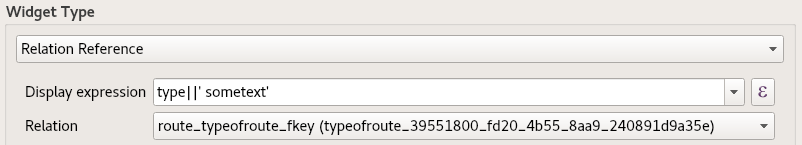
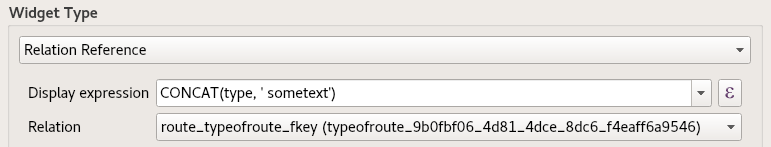
lingual corrections

diff --git a/en/meta_attributes.rst b/en/meta_attributes.rst
@@ -22,7 +22,7 @@ An Interlis comment starts with ``!!`` and ends with a line end. An attribute st
 
 **Syntax**
 
-After the start of ``!!@`` the attribute name follows, then equal, then attributevalue:
+After the start of ``!!@`` the attribute name follows, then equal, then the attribute value:
 
 ::
 
@@ -42,7 +42,7 @@ Followed by the referenced element (MODEL, TOPIC, CLASS etc.)
 	  !!@ topicInformation="Route-Type"
 	  TOPIC TypeOfRouteCatalogue
 	  EXTENDS CatalogueObjects_V1.Catalogues =
-	    !!@ dispExpression="type||' sometext'"
+	    !!@ dispExpression="CONCAT(type, ' sometext')"
 	    CLASS TypeOfRoute
 	    EXTENDS CatalogueObjects_V1.Catalogues.Item =
 
@@ -53,20 +53,21 @@ For more complex usage see the `specification of the Verein eCH <https://www.ech
 Meta Attributes in the Database
 ------------------------------------------
 
-When importing the data from the Interlis file to the DB, with ili2db integrated in the Project Generator, the Meta Attributes are stored in the table **t_ili2db_meta_attrs**:
+When importing the data from the Interlis file to the DB, with ili2db integrated in the Project Generator, the meta attributes are stored in the table **t_ili2db_meta_attrs**:
 
 ===============================================================  ==================  ===========================
 ilielement                                                       attr_name           attr_value
 ===============================================================  ==================  ===========================
 ExceptionalLoadsCatalogues_V1                                    furtherInformation  https://www.astra.admin.ch/
 ExceptionalLoadsCatalogues_V1.TypeOfRouteCatalogue               topicInformation    Route-Type
-ExceptionalLoadsCatalogues_V1.TypeOfRouteCatalogue.TypeOfRoute   dispExpression      type||' sometext'
+ExceptionalLoadsCatalogues_V1.TypeOfRouteCatalogue.TypeOfRoute   dispExpression      CONCAT(type, ' sometext')
 ===============================================================  ==================  ===========================
+
 
 Project Generator Specific Attributes
 ================================================
 
-Some attributes the Project Generator can handle as properties in the QGIS project.
+Some additional non standard meta attributes are understood by the project generator as properties in the QGIS project.
 
 List of specific Attributes
 ------------------------------------------
@@ -76,23 +77,26 @@ Used as the display expression of a Relation Reference Widget.
 
 |relation_reference|
 
-**not more specific attributes yet**
-
 
 Extra Meta Attributes File
 ================================
 
 In these external files the meta attributes can be stored instead of having them directly in the Interlis files. 
 
-These files are written in the TOML and have the filename extension ``.toml``
+These files are written in TOML and have the filename extension ``.toml``
 
 You can select the extra meta attribute files in the **Advanced Options**. This configuration is stored for the model. Means when you reselect the model later again, the file is still referenced. This information will be displayed on the main dialog of the Project Generator.
 
-In the background the ili2pg writes the attributes from the external meta attribute file first to the Interlis file and then to the PostGIS or GeoPackage storage, where the Project Generator can use them to build the QGIS project.
+In the background ili2pg writes the attributes from the external meta attribute file to the PostGIS or GeoPackage storage, where the Project Generator can use them to build the QGIS project.
 
 **Example**
-
 ::
 
 	["ExceptionalLoadsCatalogues_V1.TypeOfRouteCatalogue.TypeOfRoute"]
-	dispExpression="type||' sometext'"
+	dispExpression="CONCAT(type, ' sometext')"
+
+**More simple example**
+::
+
+	["ExceptionalLoadsRoute.TypeOfRouteCatalogue.TypeOfRoute"]
+	dispExpression="type"
